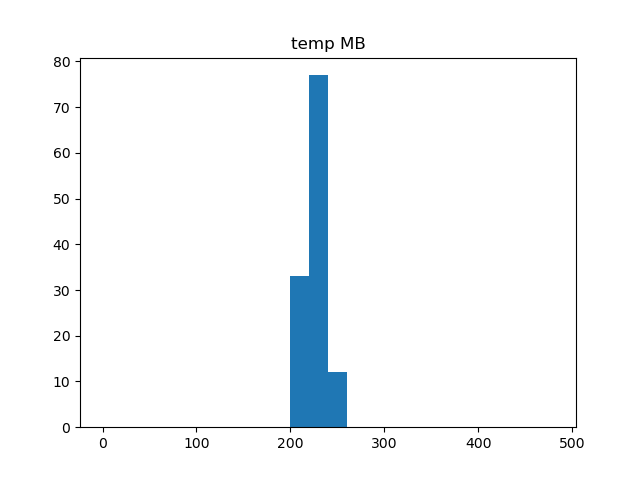
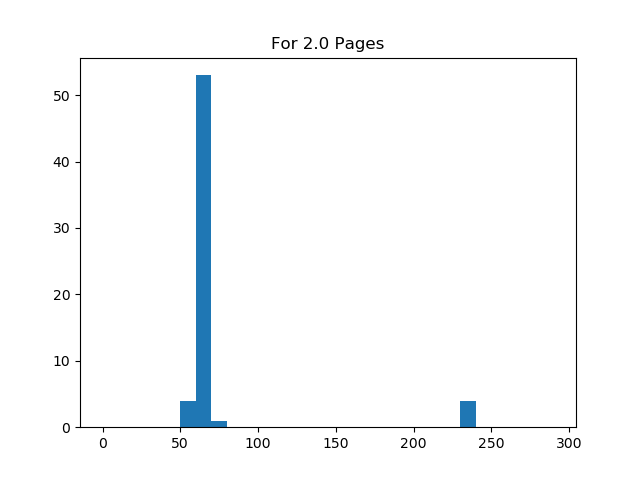
now evicting exactly one block from l3 using script and seeing its number

diff --git a/random_l2evict.c b/random_l2evict.c
@@ -6,12 +6,44 @@ inline void flush(const char *adrs) {
   asm __volatile__ ("mfence\nclflush 0(%0)" : : "r" (adrs) :);
 }
 
-CYCLES* myfunc(int pages,char** arr){
+void access_the_blocks(int time_or_not, int pages,int naccesses,char** arr,CYCLES* time,int* order){
+
+    int occur[31];
+    int index_of_block=0;
+    for(int j=0;j<pages;j++){
+        int iter = 31;
+        for(int i=0;i<31;i++)
+            occur[i]=0;
+        if(j==pages-1)
+            iter = naccesses-((pages-1)*31);
+
+        for(int i=0;i<iter;i++){
+            int index = rand()%(iter);
+            while(occur[index]!=0){
+                index = rand()%(iter);
+            }
+            occur[index]=1;
+            if(time_or_not){
+                CYCLES start;
+                start = rdtscp ();
+                volatile char w = arr[j][(2<<16)*index];
+                time[index+31*j] = rdtscp()-start;    
+            }else{
+                volatile char w = arr[j][(2<<16)*index];    
+                order[index+31*j] = index_of_block;
+                index_of_block++;
+            }
+        }    
+    }
+}
+
+CYCLES* myfunc(int pages,char** arr,int naccesses,int* order){
 
     for(int i=0;i<pages;i++){
         arr[i] = (char*)malloc(sizeof(char)*(2<<22));
         unsigned long temp = (unsigned long)arr[i];
-        arr[i] = (char*)((temp>>21)<<21);
+        arr[i] = (char*)(((temp>>21)+1)<<21);
+        //printf("%p %p\n",temp,arr[i]);
     }
 
     for(int i=0;i<31;i++){
@@ -19,45 +51,22 @@ CYCLES* myfunc(int pages,char** arr){
             flush(&arr[j][(2<<16)*i]);
     }
 
-    int occur[31];
-    CYCLES *time = (CYCLES*)malloc(pages*31*sizeof(CYCLES));
-
-    for(int j=0;j<pages;j++){
-        for(int i=0;i<31;i++)
-            occur[i]=0;
-        for(int i=0;i<31;i++){
-            int index = rand()%32;
-            while(occur[index]!=0){
-                index = rand()%32;
-            }
-            occur[index]=1;
-            volatile char w = arr[j][(2<<16)*index];
-        }    
-    }
-
-    for(int j=0;j<pages;j++){
-        for(int i=0;i<31;i++)
-            occur[i]=0;
-        for(int i=0;i<31;i++){
-            int index = rand()%32;
-            while(occur[index]!=0){
-                index = rand()%32;
-            }
-            occur[index]=1;
-            CYCLES start;
-            start = rdtscp ();
-            volatile char w = arr[j][(2<<16)*index];
-            time[index+31*j] = rdtscp()-start;
-        }
-    }
+    CYCLES *time = (CYCLES*)malloc(naccesses*sizeof(CYCLES));
+    access_the_blocks(0,pages,naccesses,arr,NULL,order);
+    access_the_blocks(1,pages,naccesses,arr,time,NULL);
     
     return time;
 }
+
 int main (int argv, char** argc) {
     
-    int pages = 4;
+    int naccesses = atoi(argc[1]);
+    int pages = (naccesses/31)+1;
+    //int pages = 2;
     char** arr = (char**)malloc(pages*sizeof(char*));
-    CYCLES* time = myfunc(pages,arr);
+    int *order = (CYCLES*)malloc(naccesses*sizeof(int));
+    CYCLES* time = myfunc(pages,arr,naccesses,order);
+
     // volatile int *xx = malloc(sizeof(int));
     // int yyy,yy;
     // *xx=1;
@@ -68,13 +77,27 @@ int main (int argv, char** argc) {
     // CYCLES tt= rdtscp()-start;
     // printf("time hit %d\n",tt);        //code proves that L1/L2 hit is 50 cycles max.
     
-    int count=0;
-    for(int i=0;i<pages*31;i++){
-        if(time[i]<=240 && time[i]>=60){
-            count++;
+    int memory[naccesses];
+    for(int i=0;i<naccesses;i++)
+        memory[i] = -1;
+
+    int l3=0;
+    int l2=0;
+    int cache_evicted = -1;
+    for(int i=0;i<naccesses;i++){
+        if(time[i]<=230 && time[i]>=60){
+            l3++;
         }
-        printf("%d\n",time[i]);
+        else if(time[i]<60)
+            l2++;
+        else{
+            cache_evicted = order[i];
+        }
+        //printf("%d\n",time[i]);
     }
-    printf("%d",count);
+
+    printf("%d\n%d\n",naccesses-l2-l3,cache_evicted);
+    //printf("L3 hits are %d\n",count);
+    //printf("L2 hits are %d\n",l2 );
     return 0;
 }
